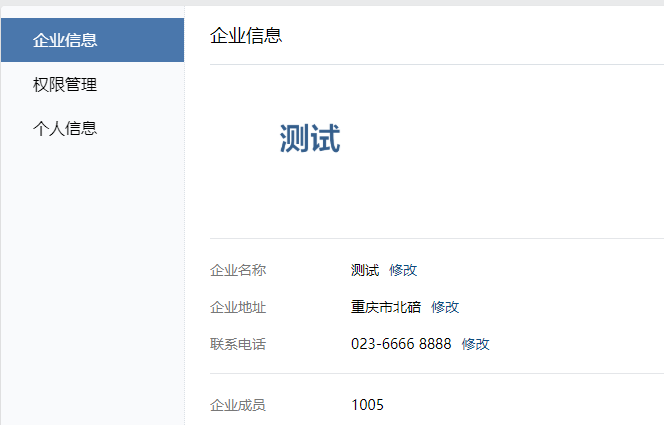
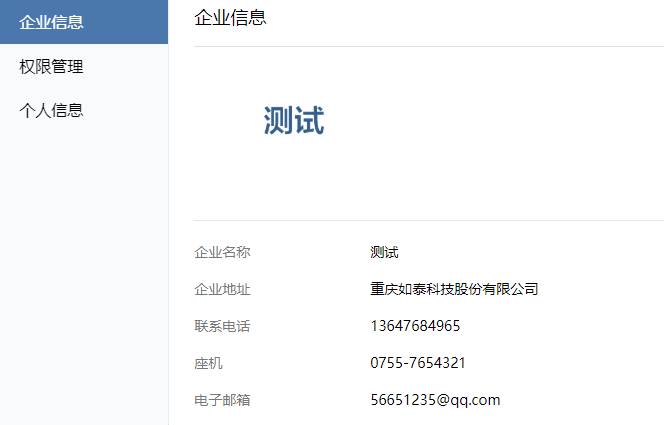
[update]更新使用手册

diff --git a/src/views/documents/manual.vue b/src/views/documents/manual.vue
@@ -17,7 +17,7 @@
         </p>
         <img :src="urlList.contact_we" alt="关于我们">
         <p class="MsoNormal">
-          <span>2.登录：访问疫情防控中心http://iot.chinautech.com/ 使用企业微信扫码登录</span>
+          <span>2.登录：访问疫情防控中心<a href="https://iot.chinautech.com/">https://iot.chinautech.com/</a> 使用企业微信扫码登录</span>
         </p>
         <img :src="urlList.login_code">
       <p class="MsoNormal"><span><b>二、地图</b></span></p>
@@ -25,14 +25,21 @@
       <img :src="urlList.overview">
       <p class="MsoNormal"><span>2.成员信息点击显示，红色成员图标表示温度告警，灰色表示不在线，蓝色表示在线</span></p>
       <img :src="urlList.detailed_info">
-      <p class="MsoNormal"><span>3.数据统计图标</span></p>
-      <img :src="urlList.statistics_icon">
+      <p class="MsoNormal"><span>3.数据统计,统计当前管理员管理成员数，统计管理的成员在线离线人数，统计管理的成员温度正常异常人数</span></p>
+      <img :src="urlList.statistics_manager">
+      <p class="MsoNormal"><span>统计饼图可点击查看详情信息</span></p>
+      <img :src="urlList.temperature_normal">
+      <p class="MsoNormal"><span>统计告警信息</span></p>
+      <img :src="urlList.statistics_alarm">
+      <p class="MsoNormal"><span>地图右上角拥有工具箱可以点击展开，查看热力图</span></p>
+      <img :src="urlList.position_info">
+      <img :src="urlList.position_heat">
       <p class="MsoNormal"><span><b>三、部门管理</b></span></p>
-      <p class="MsoNormal"><span>1.点击部门后面的三个小点进行部门的增删改操作，部门管理员对于所管辖的部门拥有删除、修改和添加子部门的权限。对于非管辖部门无操作权限。并且无添加成员权限和查看未分组权限。</span></p>
+      <p class="MsoNormal"><span>1.点击部门后面的三个小点进行部门的增删改操作，部门管理员对于所管辖的部门拥有删除、修改和添加子部门权限。对于非管辖部门无操作权限,并且无添加成员权限和查看未分组权限。普通管理员和超级管理员拥有给部门添加成员权限.</span></p>
       <img :src="urlList.department_operating">
       <p class="MsoNormal"><span>2.成员信息详情查看按钮和移除按钮。移除则回把用户放入未分组用户，等待普通管理员和超级管理员重新分配部门</span></p>
       <img :src="urlList.member_display">
-      <p class="MsoNormal"><span>3.成员详情信息</span></p>
+      <p class="MsoNormal"><span>3.成员详情信息，管理员可编辑。体温告警次数可点击只显示温度异常信息，位置告警次点击显示位置告警信息</span></p>
       <img :src="urlList.member_details">
       <p class="MsoNormal"><span>4.体温变化图，可进行选取显示范围和数据表格显示。温度告警红色字体显示</span></p>
       <img :src="urlList.temperature">
@@ -46,11 +53,11 @@
       <p class="MsoNormal"><span>3.点击查看按钮可修改围栏信息，删除按钮删除围栏。删除围栏之前必须移除围栏下的所有成员，成员围栏的绑定和解绑在部门→点击具体部门→点击成员查看成员详情里面</span></p>
       <img :src="urlList.rail_update">
       <p class="MsoNormal"><span><b>五、企业管理</b></span></p>
-      <p class="MsoNormal"><span>1.企业信息查看，超级管理员可修改企业名称、企业地址、联系电话</span></p>
+      <p class="MsoNormal"><span>1.企业信息查看，仅有超级管理员可修改企业名称、企业地址、联系电话、座机、电子邮箱</span></p>
       <img :src="urlList.company_info">
-      <p class="MsoNormal"><span>2.个人信息查看， 可修改管理员名称和联系电话</span></p>
+      <p class="MsoNormal"><span>2.个人信息查看， 管理员名称、联系电话和电子邮箱可修改</span></p>
       <img :src="urlList.user_info">
-      <p class="MsoNormal"><span>3.权限管理，部门管理员无编辑管理员和删除管理员的权限</span></p>
+      <p class="MsoNormal"><span>3.权限管理，超级管理员不可被修改，超级管理员拥有管理普通管理员和部门管理员权限，普通管理员拥有管理部门管理员权限</span></p>
       <img :src="urlList.permissions">
       </div>
       <p class="version">© 2009&nbsp;-&nbsp;2020&nbsp;Utech Inc. All Rights Reserved</p>
@@ -70,11 +77,15 @@ import permissions from "./images/manual/permissions.png";
 import rail_info from "./images/manual/rail_info.png";
 import rail_insert from "./images/manual/rail_insert.png";
 import rail_update from "./images/manual/rail_update.png";
-import statistics_icon from "./images/manual/statistics_icon.png";
+import statistics_manager from "./images/manual/statistics_manager.png";
 import temperature from "./images/manual/temperature.png";
 import temperature_display from "./images/manual/temperature_display.png";
 import temperature_info from "./images/manual/temperature_info.png";
 import user_info from "./images/manual/user_info.png";
+import temperature_normal from "./images/manual/temperature_normal.png";
+import statistics_alarm from "./images/manual/statistics_alarm.png";
+import position_info from "./images/manual/position_info.png";
+import position_heat from "./images/manual/position_heat.png";
 import { reactive, ref } from "@vue/composition-api";
 export default {
   name: "manual",
@@ -92,11 +103,15 @@ export default {
       rail_info,
       rail_insert,
       rail_update,
-      statistics_icon,
+      statistics_manager,
       temperature,
       temperature_display,
       temperature_info,
       user_info,
+      temperature_normal,
+      statistics_alarm,
+      position_info,
+      position_heat,
     });
     return {urlList};
   },
